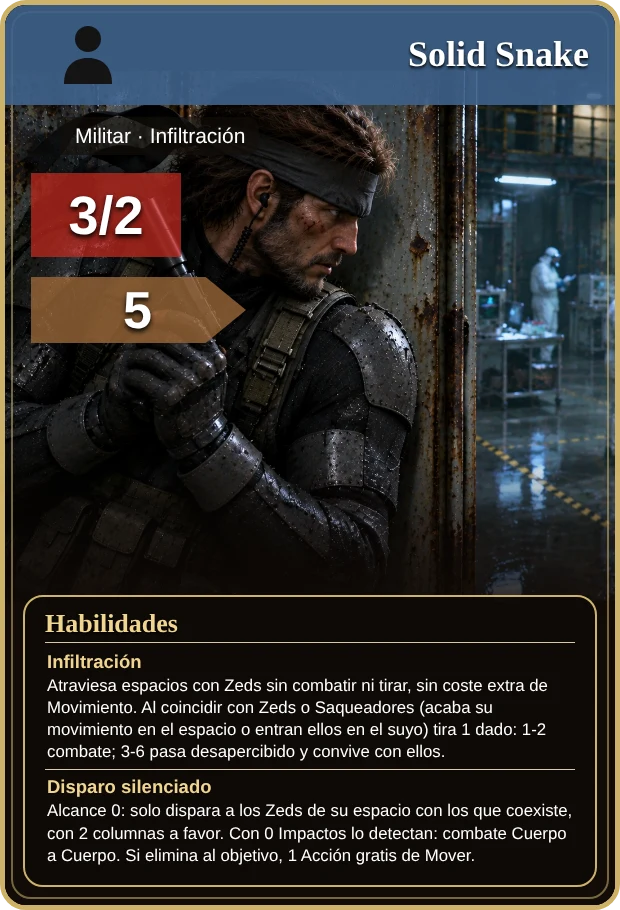
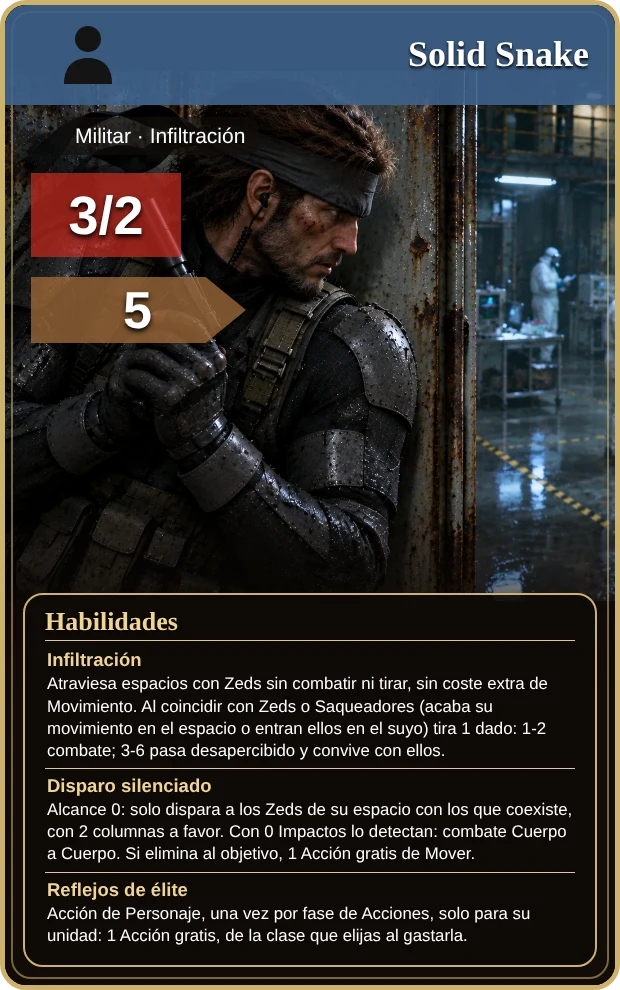
Solid Snake: Acción de Personaje «Reflejos de élite» (1 Acción gratis a elegir, una vez por fase de Acciones)
Claude-Session: https://claude.ai/code/session_01KmRiLcYw81ZWXjSnc4kn6e

diff --git a/js/expansions.js b/js/expansions.js
@@ -37,7 +37,7 @@ Object.assign(HEROES, {
   caza: { name: 'Club de Caza de Farmingdale', type: 'civh', cls: 'Civiles Heroicos', full: 3, red: 2, mp: 3, img: 'caza', card: 'h_caza', lv: 2, exp: 4, hf: 2, hr: 2,
     txt: ['<b>Puesto de caza:</b> disparan a 2 espacios sin penalización de columna.', '<b>Trofeo:</b> cuando su disparo elimina a una unidad Zed, recuperan 1 Munición.', '<b>Presa marcada:</b> Acción de Personaje (1 Acción), una vez por turno: marcan una unidad Zed a su alcance. Los disparos de cualquier unidad de jugador contra ella tienen 1 columna a favor hasta que sea eliminada o termine el turno.', '<b>A campo abierto:</b> tienen 1 columna en contra en combates Cuerpo a Cuerpo.'] },
   snake:     { name: 'Solid Snake',        type: 'hero', cls: 'Militar',    full: 3, red: 2, mp: 5, img: 'snake', card: 'h_snake', lv: 1, exp: 4,
-    txt: ['<b>Infiltración:</b> puede atravesar espacios con Zeds sin combatir ni tirar, y sin coste extra de Movimiento. Al coincidir con Zeds o Saqueadores (porque acaba su movimiento en el espacio o porque entran ellos en el suyo) tira 1 dado: 1-2 combate normal; 3-6 pasa desapercibido y convive con ellos sin combatir.', '<b>Disparo silenciado:</b> solo dispara a los Zeds de su propio espacio con los que coexiste sin combatir (alcance 0), con 2 columnas a favor. Si el disparo hace 0 Impactos, lo detectan: pierde el sigilo y hay combate Cuerpo a Cuerpo. Si elimina al objetivo, recibe 1 Acción gratis de Mover.'] },
+    txt: ['<b>Infiltración:</b> puede atravesar espacios con Zeds sin combatir ni tirar, y sin coste extra de Movimiento. Al coincidir con Zeds o Saqueadores (porque acaba su movimiento en el espacio o porque entran ellos en el suyo) tira 1 dado: 1-2 combate normal; 3-6 pasa desapercibido y convive con ellos sin combatir.', '<b>Disparo silenciado:</b> solo dispara a los Zeds de su propio espacio con los que coexiste sin combatir (alcance 0), con 2 columnas a favor. Si el disparo hace 0 Impactos, lo detectan: pierde el sigilo y hay combate Cuerpo a Cuerpo. Si elimina al objetivo, recibe 1 Acción gratis de Mover.', '<b>Reflejos de élite:</b> una Acción de Personaje por fase de Acciones, solo para su unidad: 1 Acción gratis, de la clase que elijas al gastarla.'] },
 });
 CIVH_POOL.push('jaque', 'sar', 'caza', 'brigada');
 const EXP_HEROES = { 1: ['carter', 'lee', 'may'], 2: ['betty'], 4: ['porter', 'alia', 'bender', 'ash', 'frank', 'doc', 'samcarter', 'macgyver', 'heli', 'snake'] };

diff --git a/js/actions.js b/js/actions.js
@@ -196,6 +196,7 @@ function unitActions(u) {
   if (act && !isSoft(u)) {
     const cu = k => !G.charUsed[k];
     if (u.key === 'schmidt') A.push({ id: 'ini', label: 'Iniciativa', ok: cu('ini') });
+    if (u.key === 'snake') A.push({ id: 'reflejos', label: 'Reflejos de élite', ok: cu('reflejos') });
     if (u.key === 'jones') A.push({ id: 'planes', label: 'Sus Propios Planes', ok: cu('planes') });
     if (u.key === 'jones' && G.res && u.space && sp(u.space).kind === 'office') A.push({ id: 'jhosp', label: 'Sus Propios Planes: paciente al Cementerio + Investigación', ok: cu('planes') && G.res.deck.length > 0 && hospitalUnits(u).length > 0 });
     if (u.key === 'hunt') A.push({ id: 'lid', label: 'Liderazgo', ok: cu('lid') });
@@ -256,6 +257,7 @@ async function runAction(u, id) {
     case 'visions': await UI.willyVisions(); break;
     case 'bcure': G.supplies--; healUnit(u); u.curedTurn = G.turnNo; LOG(u.name + ' se repara en el Centro (−1 Suministro).', 'good'); UI.redraw(); UI.updateStats(); break;
     case 'jhosp': { const c = hospitalUnits(u); if (!c.length) break; const v = await UI.pickUnit(c, 'Jones: elige la unidad del Hospital que va al Cementerio.', true); if (v == null) break; G.charUsed.planes = true; await sendCemetery(G.units[v], 'es trasladada al Cementerio por Jones'); await revealResearch(); break; }
+    case 'reflejos': G.charUsed.reflejos = true; u.free++; LOG('Solid Snake usa Reflejos de élite: 1 acción gratis para él.', 'good'); break;
     case 'planes': G.charUsed.planes = true; u.free++; LOG('Jones usa Sus Propios Planes: 1 acción gratis para él.', 'good'); break;
     case 'calle': { const c = calleTargets(u); if (!c.length) { LOG('No hay Civiles que puedan avanzar.'); break; } const v = c.length === 1 ? c[0].id : await UI.pickUnit(c, 'Elige la unidad que avanza hacia el Centro.', true); if (v == null) break; const x = G.units[v], ds = calleDests(x); const d = ds.length === 1 ? ds[0] : await UI.pickSpace(ds, 'Alia: elige el destino de ' + x.name + ' (hasta 2 espacios hacia el Centro).', true); if (d == null) break; G.charUsed.calle = true; if (x.resist) { x.resist = false; LOG(x.name + ' deja de estar Resistiendo.'); } LOG('Alia manda a ' + x.name + ' hacia el Centro.', 'good'); await doMove(x, d, [x.space, d]); break; }
     case 'despejar': {
